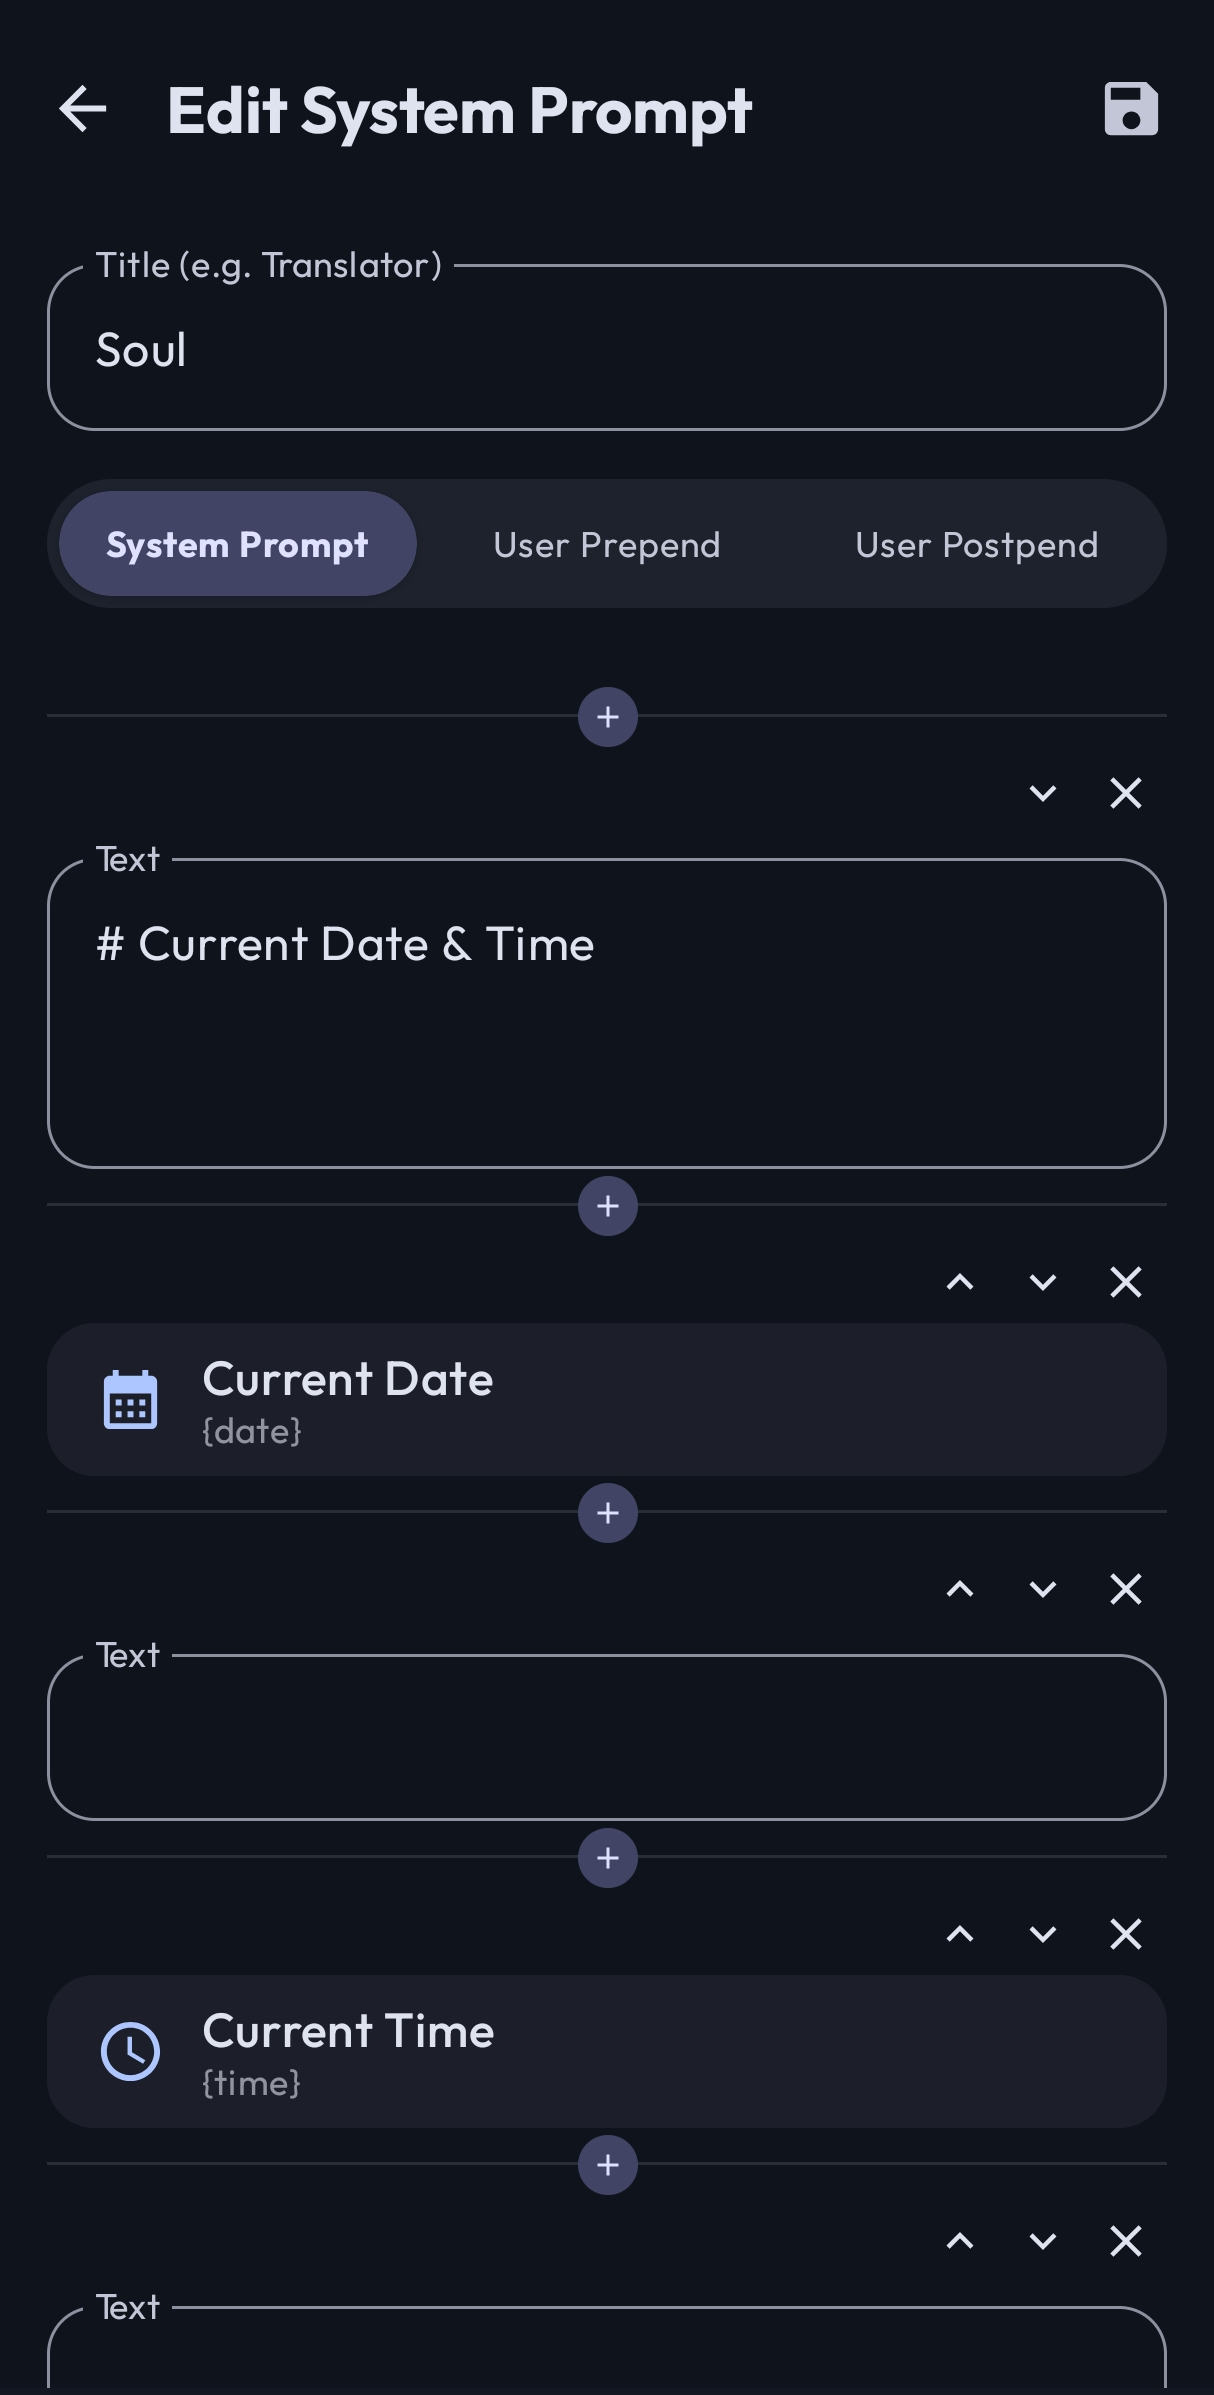
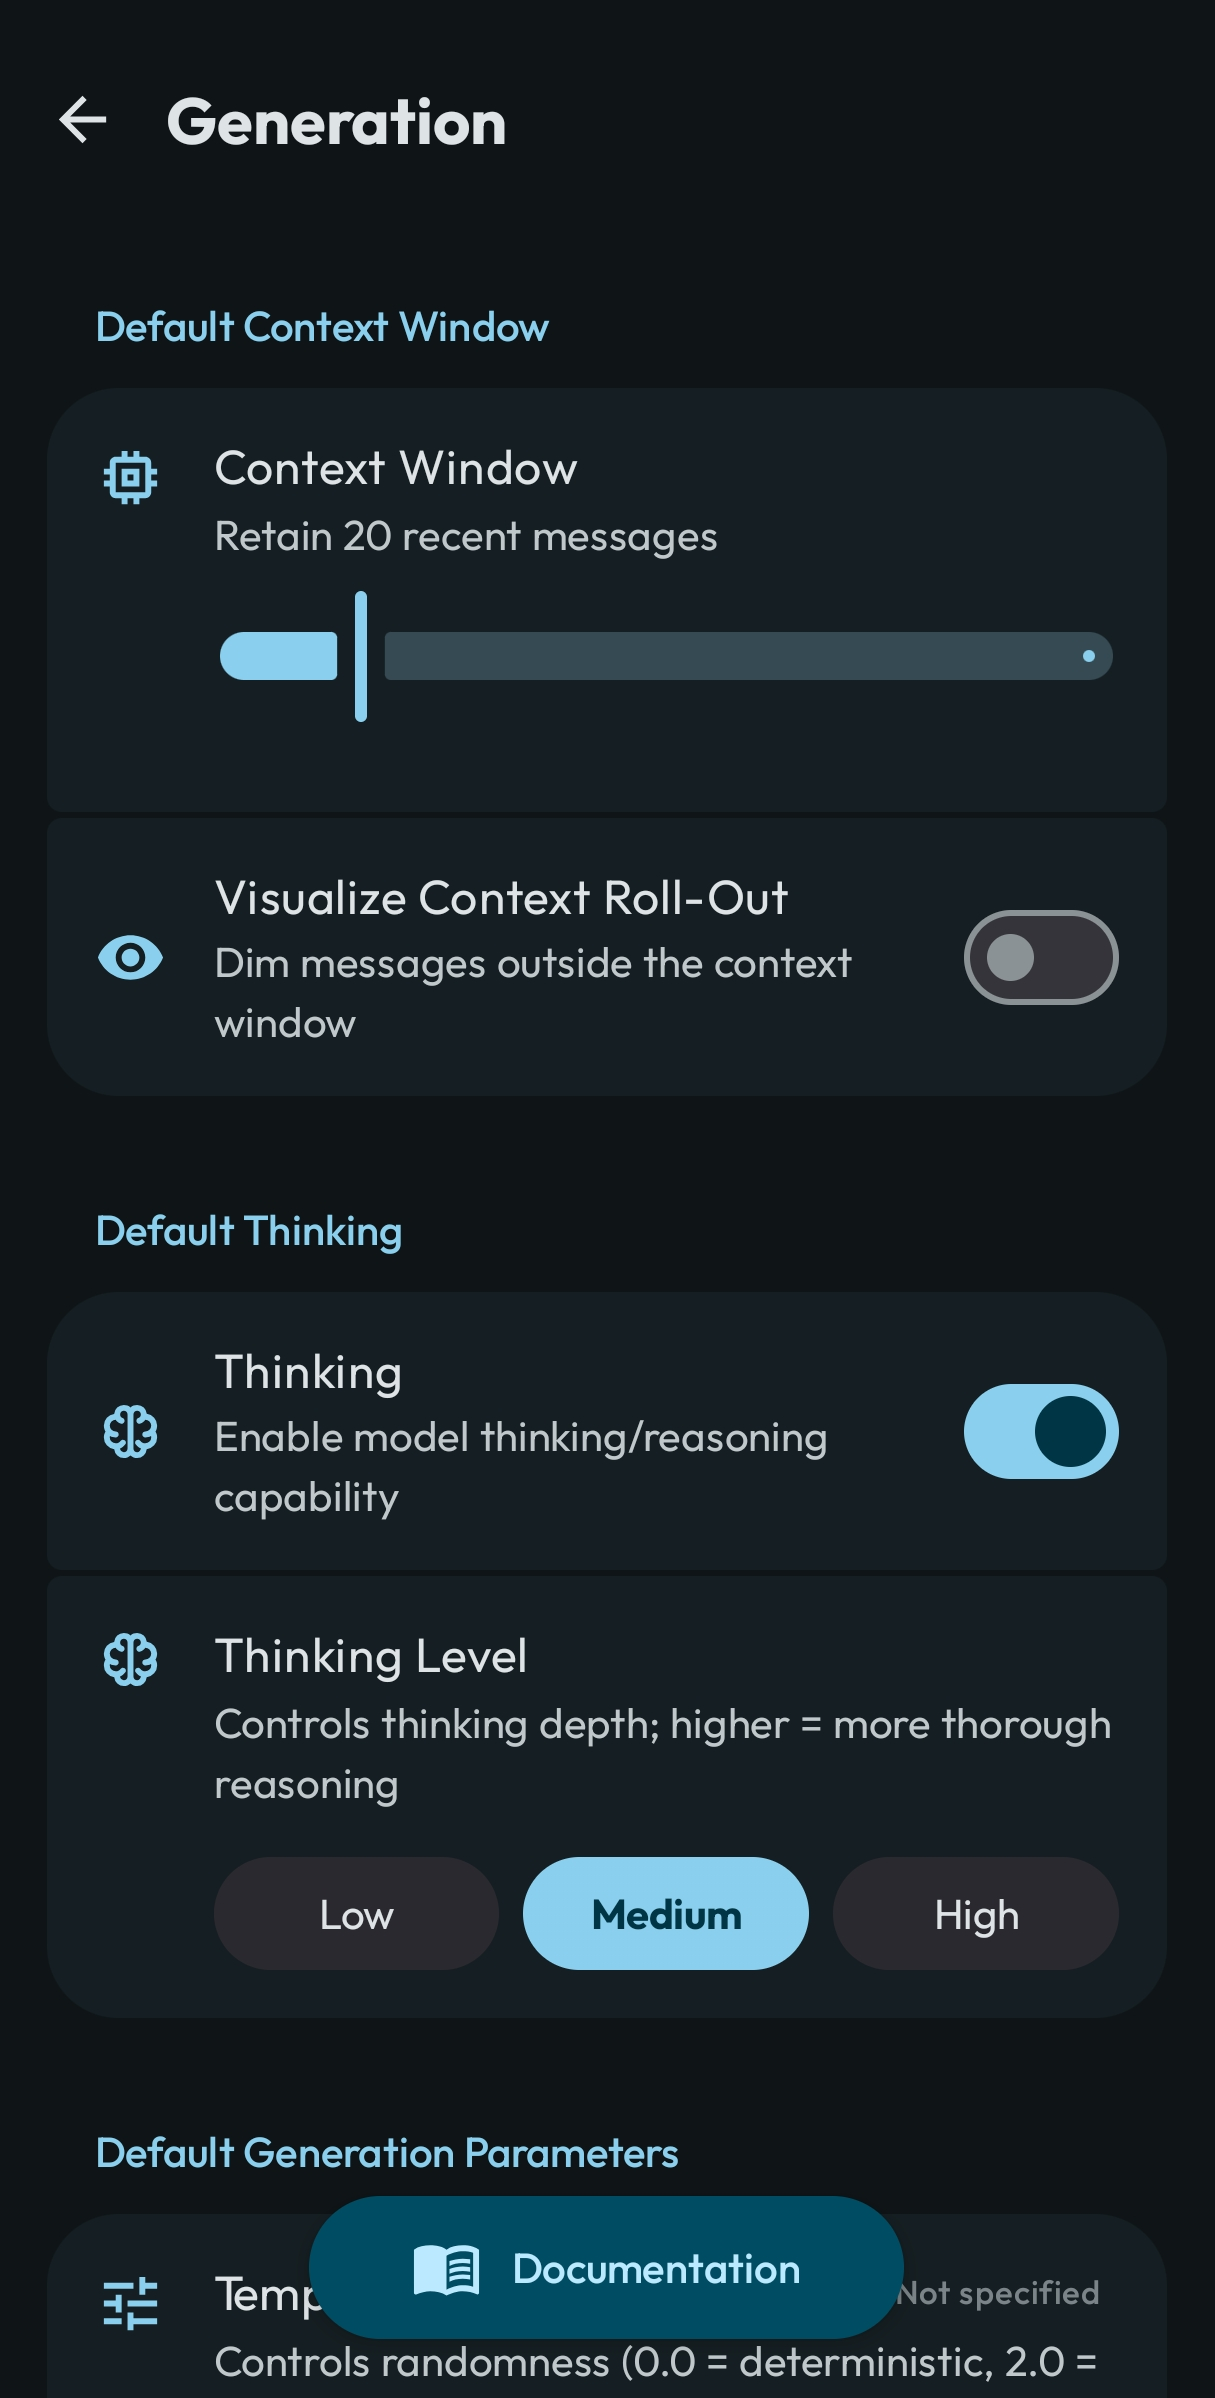
docs: refresh screenshots + add feature graphic (en-US & zh-CN)
- Replace store/README screenshots with new teal-themed set (6 for F-Droid)
- Add Google Play feature graphic to README banner and fastlane images
- Add zh-CN phoneScreenshots and featureGraphic

diff --git a/README.md b/README.md
@@ -9,6 +9,8 @@
   [![Platform: Android](https://img.shields.io/badge/Platform-Android-green.svg)](https://developer.android.com)
   [![Kotlin](https://img.shields.io/badge/Kotlin-Native-blue.svg)](https://kotlinlang.org/)
   <br/>**English** | [中文](README_CN.md)
+
+  <img src="assets/feature_graphic.png" alt="Agora — A BYOK AI App that takes back your data sovereignty." width="100%" />
 </div>
 
 ## Download

diff --git a/README_CN.md b/README_CN.md
@@ -9,6 +9,8 @@
   [![Platform: Android](https://img.shields.io/badge/Platform-Android-green.svg)](https://developer.android.com)
   [![Kotlin](https://img.shields.io/badge/Kotlin-Native-blue.svg)](https://kotlinlang.org/)
   <br/>[English](README.md) | **中文**
+
+  <img src="assets/feature_graphic.png" alt="Agora — 夺回数据主权的 BYOK AI 应用" width="100%" />
 </div>
 
 ## 下载